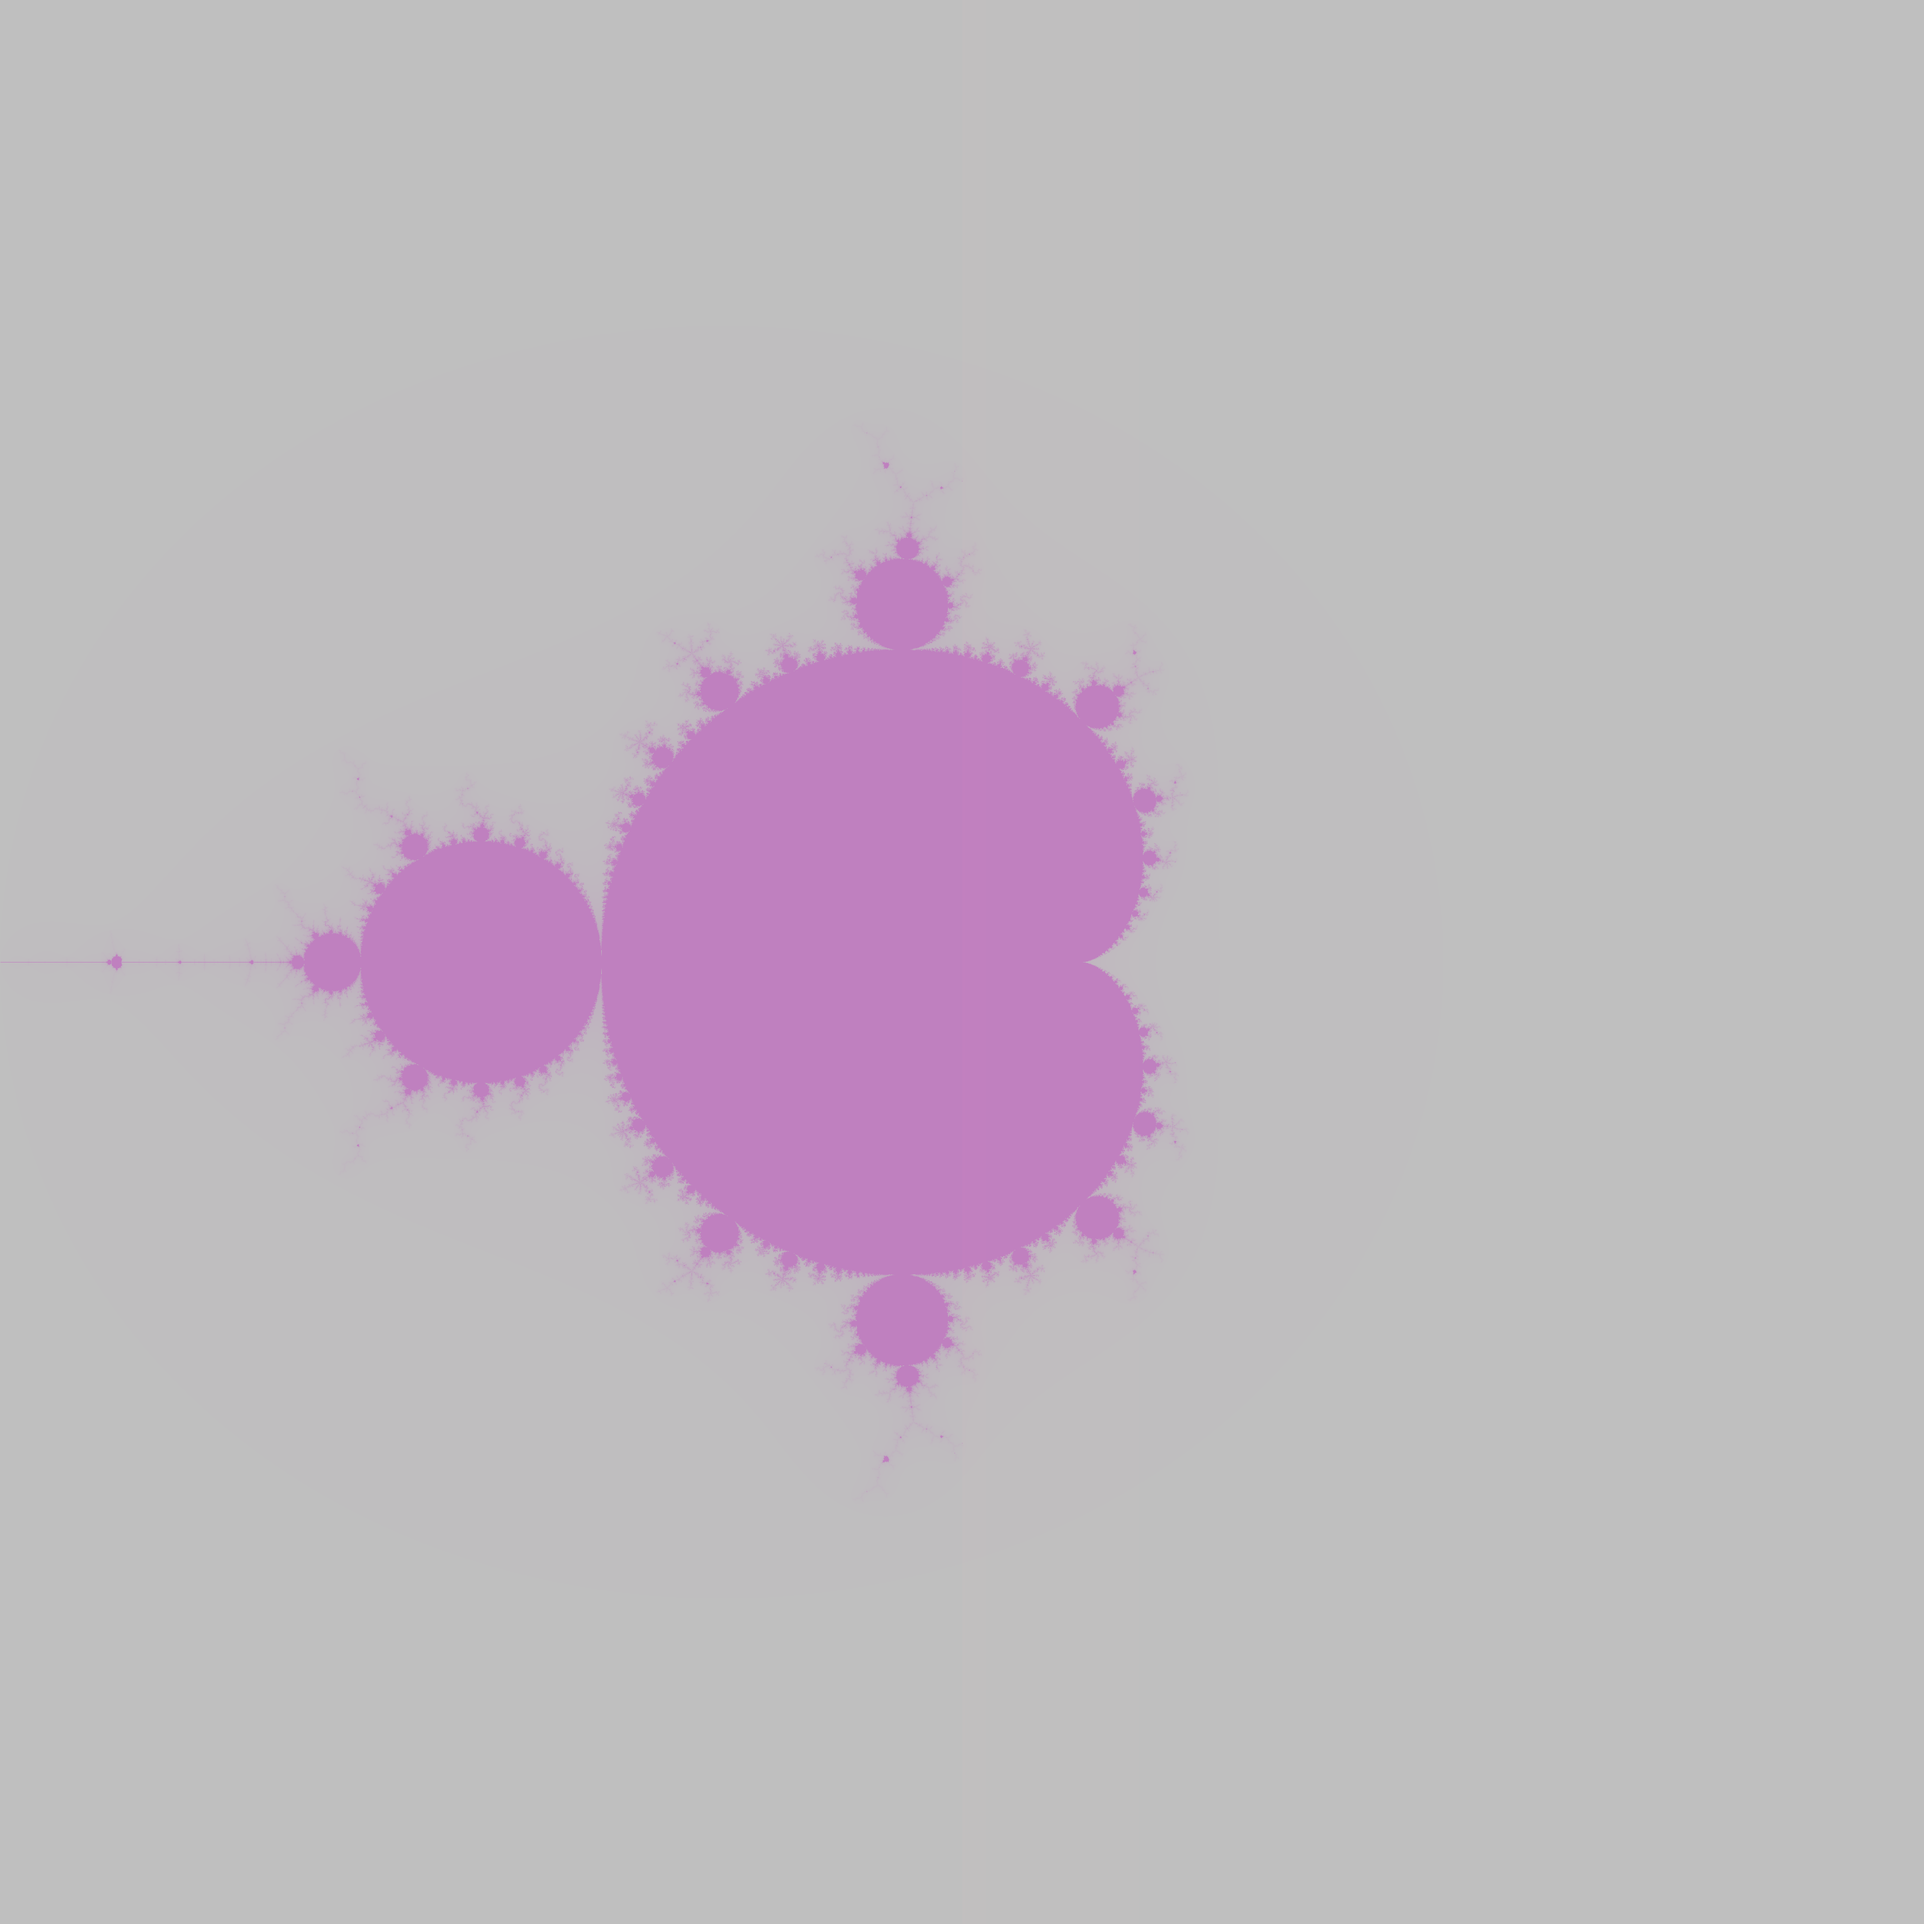
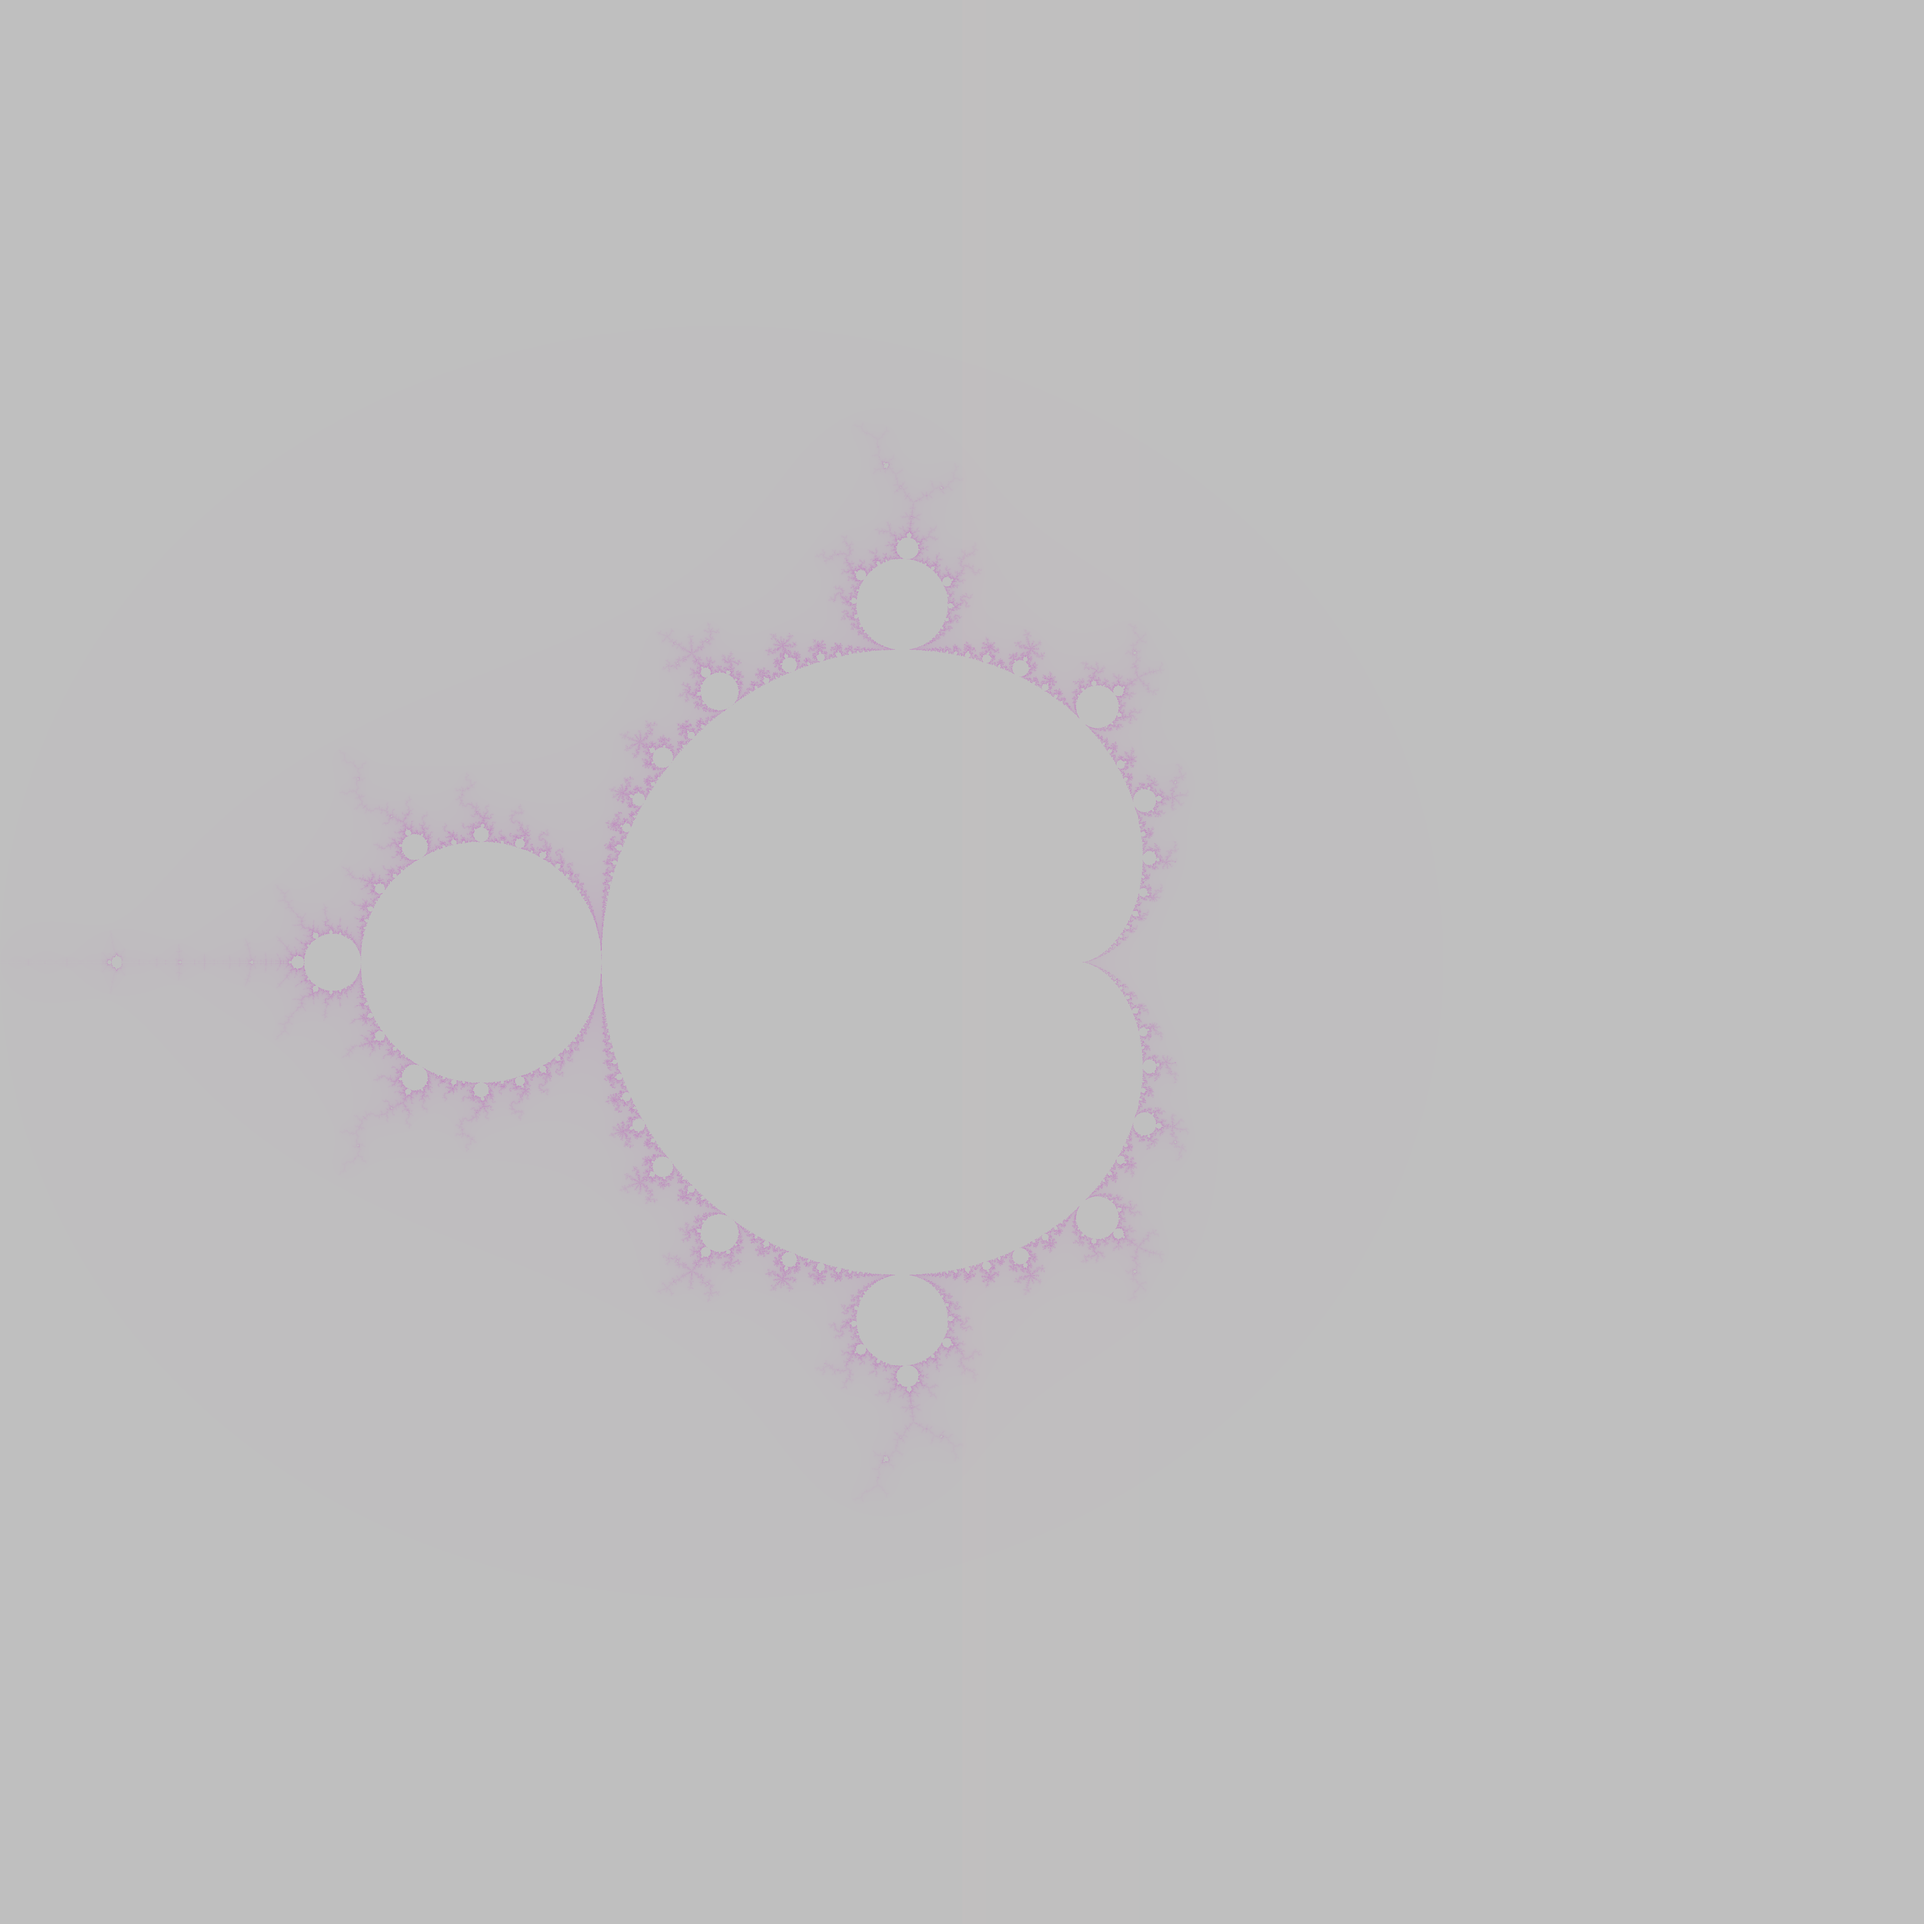
better factoring of constants

Changed region(s): [[0.1562, 0.2812, 0.5938, 0.7188]]

diff --git a/fractal.go b/fractal.go
@@ -1,3 +1,8 @@
+/*
+Compute the mandelbrot and write it out to disk.
+Nothing special.
+*/
+
 package main
 
 import (
@@ -11,33 +16,42 @@ import (
 )
 
 var (
+  // How dense do we want our pixels? n^2 slow down here.
   factor int = 1024
+  // 4 since we are running from -2 to 2.
   numSteps float64 = float64(4 * factor)
 )
 
 func RenderFractal() image.Image {
+  // Logical bounds are [-2, 2], but we want lots of pixels.
   minX, maxX, minY, maxY := -2, 2, -2, 2
   image := image.NewNRGBA(image.Rect(factor * minX, factor * minY,
   factor * maxX, factor * maxY))
 
+  // 1 step per pixel.
   xStepSize := float64(maxX - minX) / numSteps
   yStepSize := float64(maxY - minY) / numSteps
 
+  // Walk through pixel space, compute each value.
   for currX := float64(-2); currX < float64(2); currX += xStepSize {
     for currY := float64(-2); currY < float64(2); currY += yStepSize {
       currColor := GetColor(currX, currY)
-      image.SetNRGBA(int(float64(factor) * currX), int(float64(factor) * currY), currColor)
+      image.SetNRGBA(int(float64(factor) * currX),
+                     int(float64(factor) * currY), currColor)
     }
   }
 
   return image
 }
 
+// Compute the color to show for the pixel at (x,y)
 func GetColor(x, y float64) color.NRGBA {
   z := complex(x, y)
   c := z
+  // Compute the number of steps util the pixel "escapes".
+  // The boundary is what creates all of the coolness.
   steps := 0
-  for ; steps < 255 && cmplx.Abs(z) < 2; steps += 1 {
+  for ; steps < 1024 && cmplx.Abs(z) < 2; steps += 1 {
     z = z * z + c
   }
   colorStep := 128 - int(math.Log(float64(x)))
@@ -53,11 +67,13 @@ func SaveImage(image image.Image) {
   }
   // Make sure that the file closes eventually.
   defer file.Close()
-
+  // Write out the image data.
   png.Encode(file, image)
 }
 
 func main() {
+     // Hard work, compute the image.
      image := RenderFractal()
+     // Save it out to disk.
      SaveImage(image)
 }
